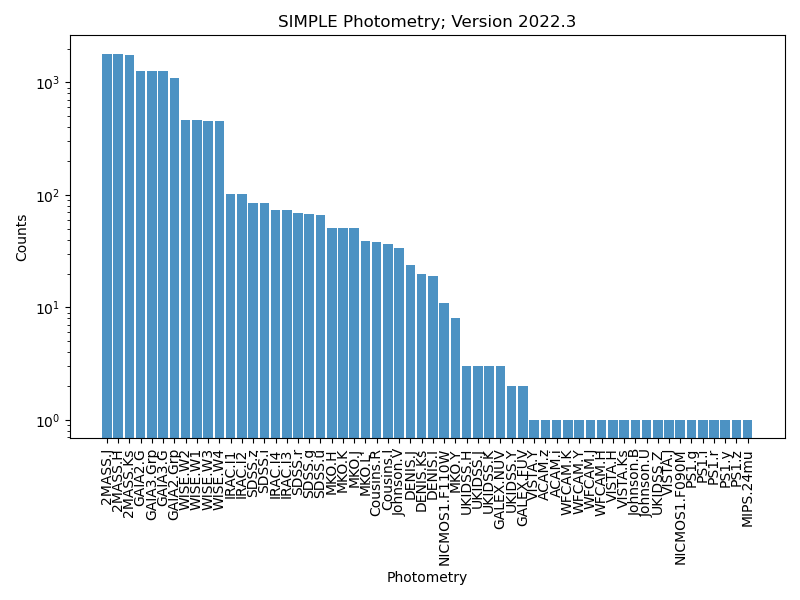
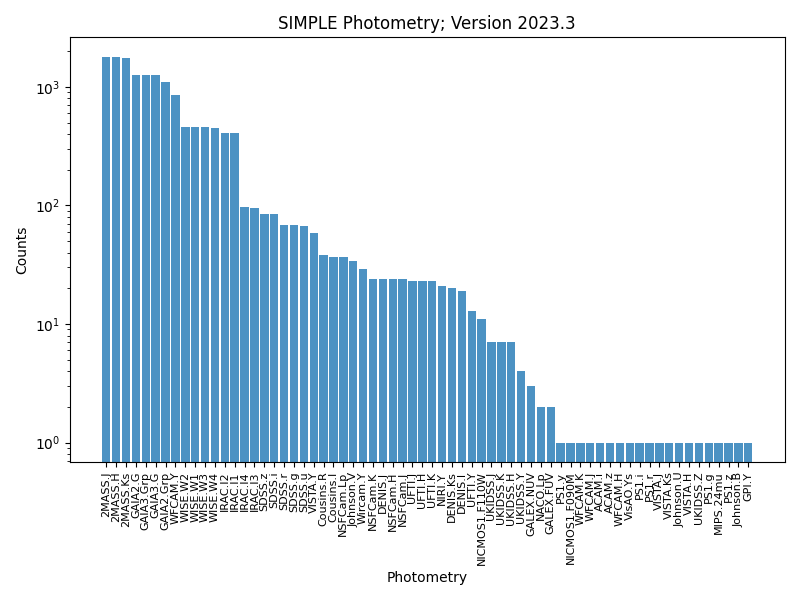
Updating figures for latest database version

diff --git a/scripts/examples/plotting_example.py b/scripts/examples/plotting_example.py
@@ -191,7 +191,7 @@ plt.xticks(index, t['band'])
 if INCLUDE_VERSION:
     plt.title(f'SIMPLE Photometry; Version {version}')
 plt.yscale('log')
-ax.set_xticklabels(ax.xaxis.get_majorticklabels(), rotation=90)
+ax.set_xticklabels(ax.xaxis.get_majorticklabels(), rotation=90, fontsize=8)
 plt.tight_layout()
 # plt.show()
 plt.savefig('documentation/figures/photometry_counts.png')
@@ -215,6 +215,8 @@ fig, ax = plt.subplots(figsize=(8, 6))
 plt.scatter(df['spectral_type_code'], df['2MASS.J'] - df['2MASS.Ks'], alpha=0.8)
 plt.xlabel('Spectral Type')
 plt.ylabel('J-Ks (mag)')
+if INCLUDE_VERSION:
+    plt.title(f'SIMPLE Sources; Version {version}')
 # Custom tick labels for spectral type
 ax.set_xticks([65, 70, 75, 80, 85, 90])
 ax.set_xticklabels(['M5', 'L0', 'L5', 'T0', 'T5', 'Y0'])
@@ -244,11 +246,13 @@ fig, ax = plt.subplots(figsize=(8, 6))
 plt.scatter(df['2MASS.J'] - df['2MASS.Ks'], df['2MASS.Ks'] - df['dm'], c=df['spectral_type_code'], alpha=0.8)
 plt.xlabel('J-Ks (mag)')
 plt.ylabel('Absolute Ks (mag)')
+if INCLUDE_VERSION:
+    plt.title(f'SIMPLE Sources; Version {version}')
 ax.invert_yaxis()
 cbar = plt.colorbar()
 cbar.set_label('Spectral Type')
-cbar.set_ticks([65, 70, 75, 80, 85, 90])
-cbar.set_ticklabels(['M5', 'L0', 'L5', 'T0', 'T5', 'Y0'])
+cbar.set_ticks([65, 70, 75, 80, 85])
+cbar.set_ticklabels(['M5', 'L0', 'L5', 'T0', 'T5'])
 plt.tight_layout()
 # plt.show()
 plt.savefig('documentation/figures/colormag_counts.png')
